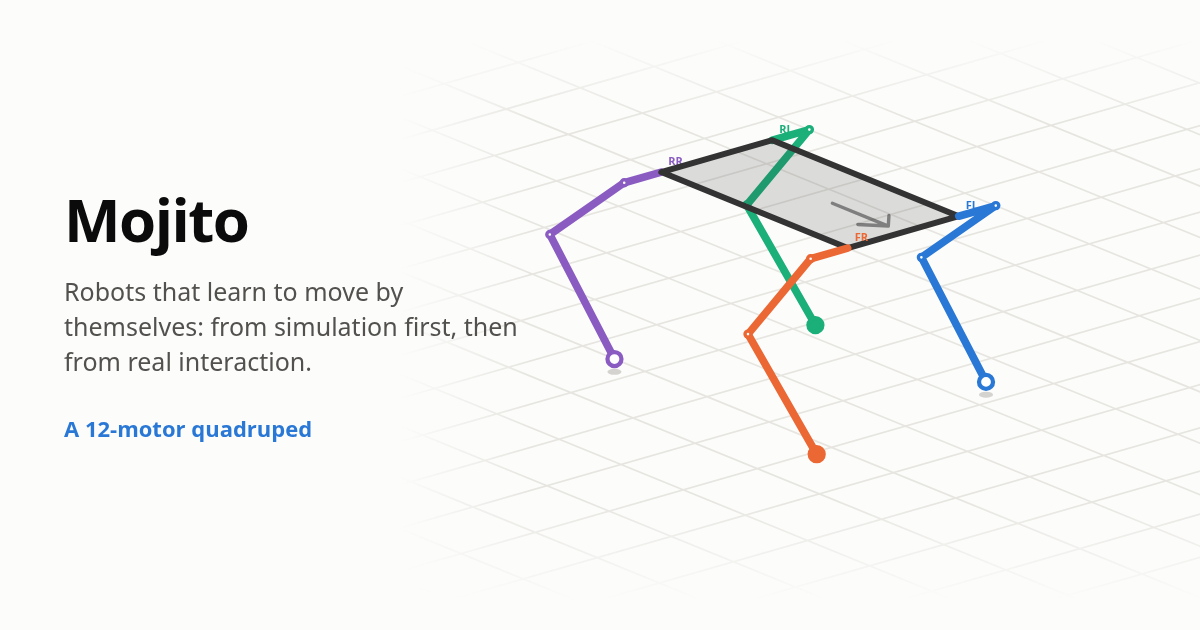
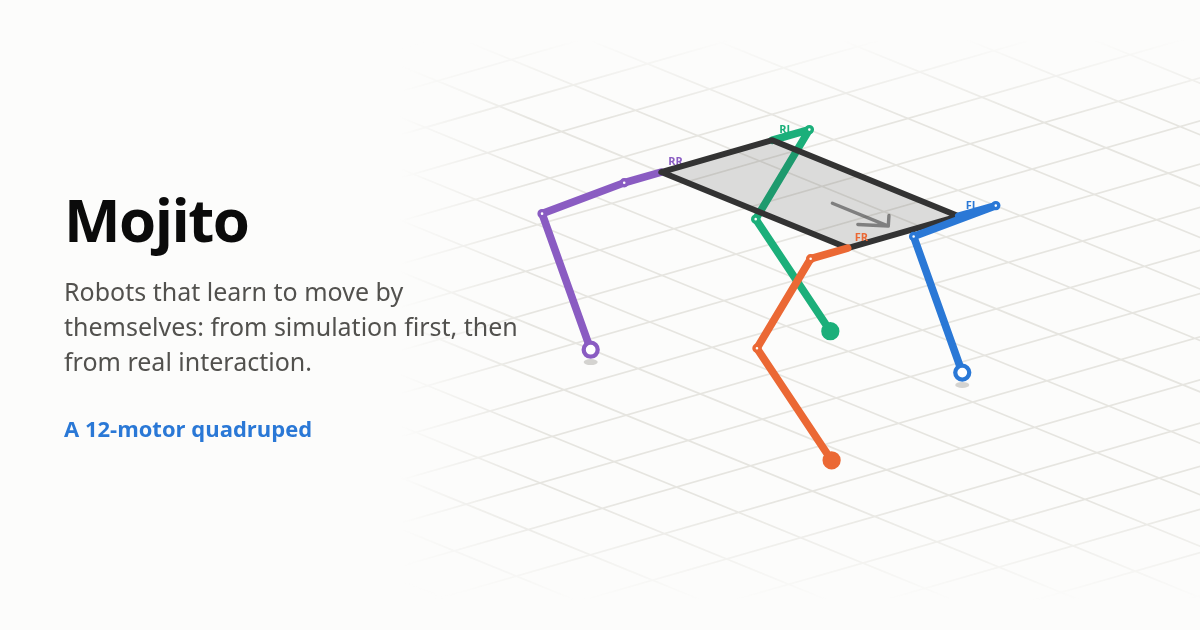
Make the trot 1.7 s everywhere; regenerate the Stage 1 trot demos and metrics
gaits.TROT is now 1.7 s (TROT_SLOW removed; TROT_STAGE1 keeps the original 0.5 s). The JS port, live explorer,
playground default, Stage 1 demos and metrics, and the social image follow. Docs and site say the trot was first made
at 0.5 s and updated after the physics period sweep, and quote the changed Stage 1 numbers (forward-trot worst error
0.25 -> 0.29 mm, turn joint margin 22 -> 10.8 deg, body centre off the support line 11 -> 38 mm).

diff --git a/site/demos.html b/site/demos.html
@@ -44,12 +44,12 @@
 const DEMOS = [
   ['s0', 'learning/step_demo.gif', 'Three leg sizes, one network', 'Stage 0', 'The same learned network drives legs 10% shorter, nominal and 10% longer through one step; the lengths are an input.', 'Geometry only. Worst error on each path is 0.2–0.5 mm.'],
   ['s1', 'body/posture_demo.gif', 'Posture with the feet planted', 'Stage 1', 'Roll, pitch, yaw and height change while every foot stays where it is. Each leg is drawn from the network\'s joint angles; orange rings are the requested foot positions.', 'Geometry only: says nothing about whether the servos could hold these poses.'],
-  ['s1', 'body/trot_forward.gif', 'Trot, forward', 'Stage 1', 'Diagonal pairs of feet move together at 0.15 m/s. Side panels show the command, the network output for the front-left leg, and the worst foot error.', 'Two feet down means no static balance; dynamics decide.'],
-  ['s1', 'body/trot_turn.gif', 'Trot, turning on the spot', 'Stage 1', 'Yaw rate 1.2 rad/s with no forward speed. Stance feet stay fixed in the world.', 'Geometry only.'],
+  ['s1', 'body/trot_forward.gif', 'Trot, forward', 'Stage 1', 'Diagonal pairs of feet move together at 0.15 m/s, period 1.7 s (first made at 0.5 s, updated after the physics period sweep). Side panels show the command, the network output for the front-left leg, and the worst foot error.', 'Two feet down means no static balance; dynamics decide.'],
+  ['s1', 'body/trot_turn.gif', 'Trot, turning on the spot', 'Stage 1', 'Yaw rate 1.2 rad/s with no forward speed, trot period 1.7 s (first made at 0.5 s, updated after the physics period sweep). Stance feet stay fixed in the world.', 'Geometry only.'],
   ['s1', 'body/crawl_forward.gif', 'Crawl, leaning away from the lifted foot', 'Stage 1', 'One foot lifts at a time and the body shifts away from it while all four are down.', 'The body centre stays inside the support triangle on paper, treating it as the centre of mass. The lean is quick: 50 mm in 0.2 s.'],
   ['s2', 'stand/stand_demo.gif', 'Standing in physics', 'Stage 2', 'The IK standing posture held through the servo model in MuJoCo.', 'Placeholder masses, gains and servo figures.'],
   ['s2', 'stand/sit_to_stand_demo.gif', 'Rising from a crouch', 'Stage 2', 'A rise from a 140 mm crouch to the 212.5 mm stand along a minimum-jerk profile.', 'The crouch is the hardest pose. Near-weightless legs; not a real robot\'s limit.'],
-  ['s2', 'gait/trot_replay.gif', 'Trot replayed in physics (side view)', 'Stage 2', 'The trot with a 1.7 s period (the best of the periods tried, see Results) at 0.15 m/s through the servo model. Filled foot = loaded; the dashed line is where the body would be at the commanded speed.', 'The body still falls short of the dashed line, and it tilts more than the 0.5 s trot did. Numbers: Results.'],
+  ['s2', 'gait/trot_replay.gif', 'Trot replayed in physics (side view)', 'Stage 2', 'The trot with a 1.7 s period (picked from a sweep of periods; the first version used 0.5 s, see Results) at 0.15 m/s through the servo model. Filled foot = loaded; the dashed line is where the body would be at the commanded speed.', 'The body still falls short of the dashed line, and it tilts more than the 0.5 s trot did. Numbers: Results.'],
   ['s2', 'gait/crawl_replay.gif', 'Crawl replayed in physics (side view)', 'Stage 2', 'The Stage 1 crawl at 0.04 m/s through the servo model.', 'Servo torque reaches 0.94–0.99 of stall in the crawl; the reason was not traced.'],
   ['s2', 'gait/trot_iso.gif', 'Trot, isometric, with timing chart', 'Stage 2', 'Isometric view of the 1.7 s trot with each leg\'s commanded stance (thin bar) against the weight it actually carries (coloured bar).', 'Where bars disagree, a leg is loaded when told to swing.'],
   ['s2', 'gait/trot_turn_iso.gif', 'Trot turning, isometric', 'Stage 2', 'The 1.7 s trot turning on the spot at 0.6 rad/s commanded, in physics.', 'At this period the 1.2 rad/s turn of the 0.5 s trot falls over, so the demo turns more slowly. Numbers: Results.'],

diff --git a/site/theory.html b/site/theory.html
@@ -127,7 +127,7 @@
       <p>Four numbers per cycle: the <b>period</b>; the <b>duty</b> \(D\) (fraction of the cycle a foot is on the ground); four <b>offsets</b> \(o_i\) (the cycle phase at which leg \(i\) starts its stance); and the swing <b>lift</b>. Leg \(i\)'s phase is \(\varphi_i = (t/T - o_i) \bmod 1\); it is on the ground while \(\varphi_i<D\) and swinging after, so it lifts at \((o_i + D) \bmod 1\). Stance lasts \(DT\) and swing \((1-D)T\).</p>
       <table>
         <tr><th>Gait</th><th>Period</th><th>Duty</th><th>Offsets (FL, FR, RL, RR)</th><th>Idea</th></tr>
-        <tr><td>Trot</td><td>0.5 s (1.7 s in the physics replays)</td><td>0.5</td><td>0, 0.5, 0.5, 0</td><td>Diagonal pairs together; two feet down at all times</td></tr>
+        <tr><td>Trot</td><td>1.7 s (first 0.5 s; changed after the physics period sweep)</td><td>0.5</td><td>0, 0.5, 0.5, 0</td><td>Diagonal pairs together; two feet down at all times</td></tr>
         <tr><td>Crawl</td><td>2.0 s</td><td>0.85</td><td>0.75, 0.25, 0.5, 0</td><td>One foot up at a time (RL, FL, RR, FR); body leans away from it</td></tr>
         <tr><td>Pace</td><td>0.5 s</td><td>0.5</td><td>0, 0.5, 0, 0.5</td><td>Left legs together, then right (a test case: it goes backward in physics)</td></tr>
       </table>

diff --git a/site/assets/hero.js b/site/assets/hero.js
@@ -7,7 +7,7 @@
     if (!canvas) return;
     const view = new RobotView(canvas, { az: -40, el: 22, zoom: 1.15 }), robot = new M.Robot(), reduce = matchMedia('(prefers-reduced-motion: reduce)').matches;
     let t = 0, last = performance.now(), mode = 'trot';
-    const gaits = { trot: [Object.assign({}, M.TROT, { period: 1.7 }), [0.15, 0]], crawl: [M.CRAWL, [0.04, 0]] };
+    const gaits = { trot: [M.TROT, [0.15, 0]], crawl: [M.CRAWL, [0.04, 0]] };
     function frame(now) {
       t += Math.min(0.1, (now - last) / 1000); last = now;
       const [gait, v] = gaits[mode], r = M.evaluate({ robot, gait, t, velocity: v, yawRate: 0, height: 0.2125, mass: 1.5, volts: 5 });

diff --git a/site/assets/playground.js b/site/assets/playground.js
@@ -34,7 +34,7 @@
   const DEFAULTS = {
     la: 0.05, lu: 0.15, ll: 0.15, bl: 0.30, bw: 0.15, h: 0.2125, sFL: 1,
     px: 0, py: 0, pz: 0, roll: 0, pitch: 0, yaw: 0,
-    period: 0.5, duty: 0.5, lift: 0.03, sway: 0, o0: 0, o1: 0.5, o2: 0.5, o3: 0,
+    period: 1.7, duty: 0.5, lift: 0.03, sway: 0, o0: 0, o1: 0.5, o2: 0.5, o3: 0,
     vx: 0.15, vy: 0, wz: 0, mass: 1.5, volts: 5,
   };
   const kin = { st: Object.assign({}, DEFAULTS), mode: 'gait', gaitName: 'trot', t: 0, playing: true, speed: 1, ctl: {} };

diff --git a/site/assets/mojito.js b/site/assets/mojito.js
@@ -130,7 +130,7 @@
   }
 
   /* ---------- gaits ---------- */
-  const TROT = { name: 'trot', period: 0.5, duty: 0.5, offsets: [0, 0.5, 0.5, 0], lift: 0.03, sway: 0 };
+  const TROT = { name: 'trot', period: 1.7, duty: 0.5, offsets: [0, 0.5, 0.5, 0], lift: 0.03, sway: 0 };
   const CRAWL = { name: 'crawl', period: 2.0, duty: 0.85, offsets: [0.75, 0.25, 0.5, 0], lift: 0.03, sway: 0.025 };
   const PACE = { name: 'pace', period: 0.5, duty: 0.5, offsets: [0, 0.5, 0, 0.5], lift: 0.03, sway: 0 };
 

diff --git a/scripts/sim/pace_diagnosis.py b/scripts/sim/pace_diagnosis.py
@@ -24,7 +24,7 @@ from mojito.robot import gaits
 from mojito.sim import actuators, gait_replay  # noqa: E402
 
 TIMESTEP = 0.002
-PACE = dataclasses.replace(gaits.TROT, name="pace", offsets=(0.0, 0.5, 0.0, 0.5))  # FL RL together, FR RR together
+PACE = dataclasses.replace(gaits.TROT_STAGE1, name="pace", offsets=(0.0, 0.5, 0.0, 0.5))  # FL RL together, FR RR together
 Servo = actuators.ServoParams
 IDEAL = Servo(kp=100.0, kd=1.0, latency=0.0, resolution=1e-4, torque_scale=10.0)
 
@@ -59,7 +59,7 @@ def measure(gait, velocity=0.1, cycles=3, **kw):
 def main():
     out = {"what": __doc__.strip().split("\n")[0], "velocity_commanded_m_s": 0.1}
     out["trot_vs_pace"] = {f"{g.name} {n}": measure(g, **kw)
-                           for g in (gaits.TROT, PACE)
+                           for g in (gaits.TROT_STAGE1, PACE)
                            for n, kw in (("kp 10", {}), ("kp 100", dict(servo=Servo(kp=100.0, kd=1.0))), ("ideal servo", dict(servo=IDEAL)))}
     rows = {}
     for name, gait in (("pace period 0.5 (base)", PACE), ("period 1.0", dataclasses.replace(PACE, period=1.0)),

diff --git a/mojito/sim/live_sim.py b/mojito/sim/live_sim.py
@@ -30,7 +30,7 @@ HISTORY = 2.0              # s, window for the measured velocity
 CONTACT_FORCE = 0.5        # N, a foot carrying more is "down"
 
 DEFAULTS = dict(
-    period=0.5, duty=0.5, offsets=[0.0, 0.5, 0.5, 0.0], lift=0.03, sway=0.0,
+    period=1.7, duty=0.5, offsets=[0.0, 0.5, 0.5, 0.0], lift=0.03, sway=0.0,
     vx=0.15, vy=0.0, yaw_rate=0.0,
     kp=10.0, kd=0.2, mass=1.72, speed=1.0, walk=False,
     # robot design: these rebuild the model (like mass). Metres.
@@ -38,7 +38,7 @@ DEFAULTS = dict(
     voltage=5.0,
 )
 PRESETS = {
-    "trot": dict(period=0.5, duty=0.5, offsets=[0.0, 0.5, 0.5, 0.0], lift=0.03, sway=0.0, vx=0.15, vy=0.0, yaw_rate=0.0),
+    "trot": dict(period=1.7, duty=0.5, offsets=[0.0, 0.5, 0.5, 0.0], lift=0.03, sway=0.0, vx=0.15, vy=0.0, yaw_rate=0.0),
     "crawl": dict(period=2.0, duty=0.85, offsets=[0.75, 0.25, 0.5, 0.0], lift=0.03, sway=0.025, vx=0.04, vy=0.0, yaw_rate=0.0),
     "pace": dict(period=0.5, duty=0.5, offsets=[0.0, 0.5, 0.0, 0.5], lift=0.03, sway=0.0, vx=0.1, vy=0.0, yaw_rate=0.0),
 }

diff --git a/mojito/robot/gaits.py b/mojito/robot/gaits.py
@@ -45,10 +45,10 @@ class Gait:
 
 
 # Diagonal pairs move together; two feet down at all times.
-TROT = Gait("trot", period=0.5, duty=0.5, offsets=(0.0, 0.5, 0.5, 0.0))
-# The same trot with a 1.7 s period: the physics replays, demos and website physics lab use this one (docs/STAGE2.md,
-# "Longer trot periods"). The kinematic Stage 1 maths and its JavaScript port stay on the 0.5 s trot above.
-TROT_SLOW = replace(TROT, period=1.7)
+# The period is 1.7 s. Stage 1 first used 0.5 s, set before any physics; a period sweep in MuJoCo showed that was not
+# optimal and 1.7 s was chosen from it (docs/STAGE2.md, "Longer trot periods"). TROT_STAGE1 keeps the original for comparison.
+TROT = Gait("trot", period=1.7, duty=0.5, offsets=(0.0, 0.5, 0.5, 0.0))
+TROT_STAGE1 = replace(TROT, period=0.5)
 # One foot in the air at a time, in the order RL, FL, RR, FR.
 # The body leans away from that foot while all four are down.
 CRAWL = Gait("crawl", period=2.0, duty=0.85, offsets=(0.75, 0.25, 0.5, 0.0), lift=0.03, sway=0.025)

diff --git a/tests/robot/test_body.py b/tests/robot/test_body.py
@@ -60,12 +60,13 @@ class TestBody(unittest.TestCase):
 
 
 class TestGaits(unittest.TestCase):
-    def test_slow_trot_only_changes_the_period(self):
-        self.assertEqual(gaits.TROT_SLOW.period, 1.7)
+    def test_trot_is_1p7_s_and_the_original_stage1_trot_only_differs_in_period(self):
+        self.assertEqual(gaits.TROT.period, 1.7)
+        self.assertEqual(gaits.TROT_STAGE1.period, 0.5)
         for field in ("duty", "offsets", "lift", "sway"):
-            self.assertEqual(getattr(gaits.TROT_SLOW, field), getattr(gaits.TROT, field))
+            self.assertEqual(getattr(gaits.TROT_STAGE1, field), getattr(gaits.TROT, field))
         # same foot path shape: a stance still covers velocity * stance_time, which grows with the period
-        self.assertAlmostEqual(gaits.TROT_SLOW.stance_time, 0.85)
+        self.assertAlmostEqual(gaits.TROT.stance_time, 0.85)
 
     def test_sequence_offsets_reproduce_the_crawl_and_validate(self):
         g = gaits.CRAWL

diff --git a/scripts/sim/gait_replay.py b/scripts/sim/gait_replay.py
@@ -1,4 +1,4 @@
-"""Replay the Stage 1 trot (1.7 s period, `gaits.TROT_SLOW`) and crawl in MuJoCo through the servo model.
+"""Replay the Stage 1 trot (1.7 s period, `gaits.TROT`) and crawl in MuJoCo through the servo model.
 
 Placeholder dimensions, masses (1.72 kg), servo figures (5 V, unverified), friction. Writes
 results/gait/gait_replay.json. Needs mujoco.
@@ -15,8 +15,8 @@ from mojito.sim import gait_replay  # noqa: E402
 
 # (gait, forward velocity m/s, yaw rate rad/s, cycles)
 CASES = [
-    (gaits.TROT_SLOW, 0.0, 0.0, 3), (gaits.TROT_SLOW, 0.05, 0.0, 3), (gaits.TROT_SLOW, 0.15, 0.0, 3), (gaits.TROT_SLOW, 0.30, 0.0, 3),
-    (gaits.TROT_SLOW, 0.0, 0.6, 3),
+    (gaits.TROT, 0.0, 0.0, 3), (gaits.TROT, 0.05, 0.0, 3), (gaits.TROT, 0.15, 0.0, 3), (gaits.TROT, 0.30, 0.0, 3),
+    (gaits.TROT, 0.0, 0.6, 3),
     (gaits.CRAWL, 0.0, 0.0, 2), (gaits.CRAWL, 0.02, 0.0, 2), (gaits.CRAWL, 0.04, 0.0, 2), (gaits.CRAWL, 0.08, 0.0, 2),
 ]
 

diff --git a/scripts/body/make_body_demos.py b/scripts/body/make_body_demos.py
@@ -220,8 +220,8 @@ def main():
 
     demos = {
         "posture_demo": lambda: posture_script(robot),
-        "trot_forward": lambda: gait_script(robot, gaits.TROT, (0.15, 0.0), 0.0, 4, 30, "Trot, straight ahead at 0.15 m/s"),
-        "trot_turn": lambda: gait_script(robot, gaits.TROT, (0.0, 0.0), 1.2, 6, 30, "Trot, turning on the spot at 1.2 rad/s"),
+        "trot_forward": lambda: gait_script(robot, gaits.TROT, (0.15, 0.0), 0.0, 2, 20, "Trot, straight ahead at 0.15 m/s"),
+        "trot_turn": lambda: gait_script(robot, gaits.TROT, (0.0, 0.0), 1.2, 2, 20, "Trot, turning on the spot at 1.2 rad/s"),
         "crawl_forward": lambda: gait_script(robot, gaits.CRAWL, (0.04, 0.0), 0.0, 2, 20, "Crawl at 0.04 m/s, body leaning away from the lifted foot"),
     }
     os.makedirs("results/body", exist_ok=True)

diff --git a/scripts/sim/make_gait_iso_demos.py b/scripts/sim/make_gait_iso_demos.py
@@ -18,8 +18,8 @@ from mojito.sim import gait_plots, gait_replay  # noqa: E402
 
 OUT = os.path.join(os.path.dirname(__file__), "..", "..", "results", "gait")
 CASES = [
-    ("trot_iso", gaits.TROT_SLOW, (0.15, 0.0), 0.0, 3, "Trot (1.7 s period) at 0.15 m/s commanded"),
-    ("trot_turn_iso", gaits.TROT_SLOW, (0.0, 0.0), 0.6, 3, "Trot (1.7 s period) turning at 0.6 rad/s commanded"),
+    ("trot_iso", gaits.TROT, (0.15, 0.0), 0.0, 3, "Trot (1.7 s period) at 0.15 m/s commanded"),
+    ("trot_turn_iso", gaits.TROT, (0.0, 0.0), 0.6, 3, "Trot (1.7 s period) turning at 0.6 rad/s commanded"),
     ("crawl_iso", gaits.CRAWL, (0.04, 0.0), 0.0, 2, "Crawl at 0.04 m/s commanded"),
 ]
 
